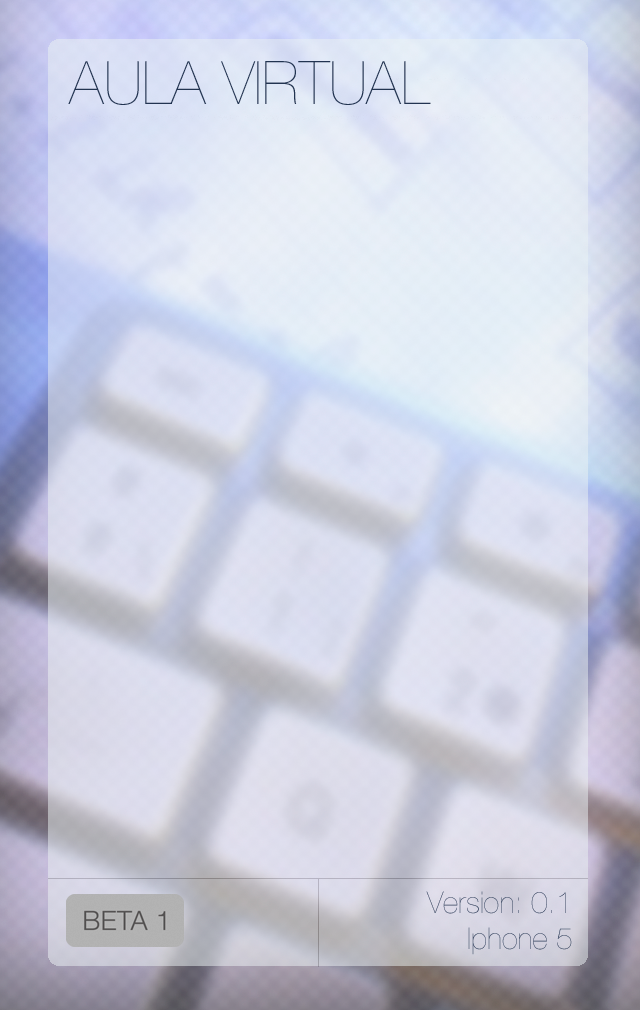
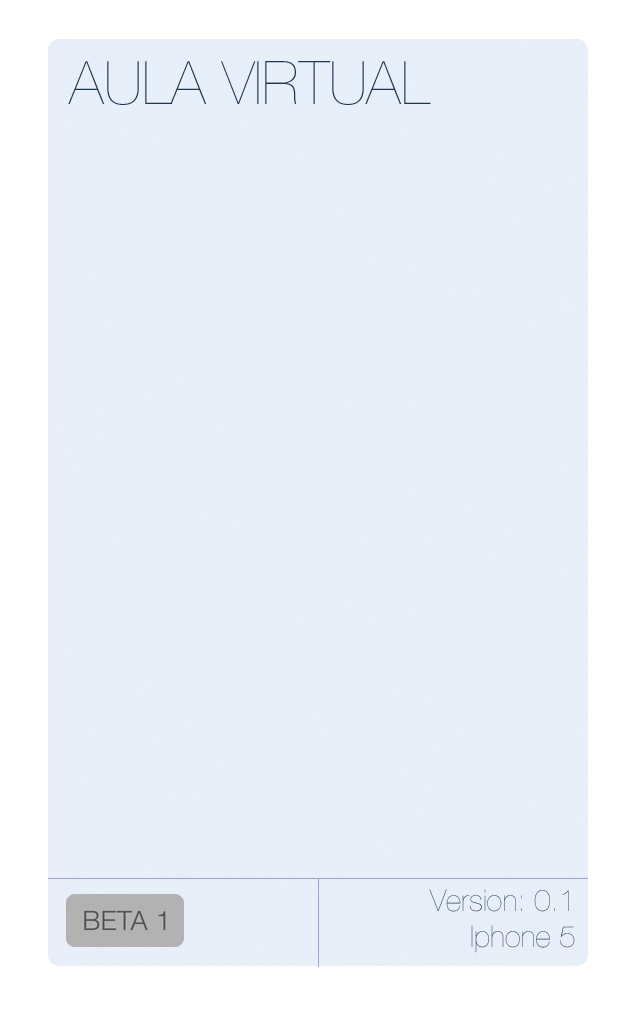
Adaptacion Ios 7 pantallas login, versiones iphone 4 retina e iphone 5.

diff --git a/Resources/alloy/controllers/index.js b/Resources/alloy/controllers/index.js
@@ -99,9 +99,9 @@ function Controller() {
         window.setRightNavButton(btnGuardar);
     } else {
         var window = Titanium.UI.createWindow({
-            title: Titanium.Platform.displayCaps.platformHeight
+            title: "Datos de Acceso"
         });
-        window.backgroundImage = 568 > Titanium.Platform.displayCaps.platformHeight ? "library/images/iphone/backGround320x416Login.png" : "library/images/iphone/backGround640x1010Login.png";
+        window.backgroundImage = 568 > Titanium.Platform.displayCaps.platformHeight ? "library/images/iphone/backGround640x920Login.png" : "library/images/iphone/backGround640x1010Login.png";
         window.open({
             modal: true,
             modalTransitionStyle: Ti.UI.iPhone.MODAL_TRANSITION_STYLE_FLIP_HORIZONTAL,

diff --git a/app/controllers/index.js b/app/controllers/index.js
@@ -26,10 +26,10 @@ if (Ti.App.Properties.getString('Login')==undefined){
     window.setRightNavButton(btnGuardar);
    
 }else{
-    var window = Titanium.UI.createWindow({title:Titanium.Platform.displayCaps.platformHeight});
+    var window = Titanium.UI.createWindow({title:"Datos de Acceso"});//Titanium.Platform.displayCaps.platformHeight});
     
     if (Titanium.Platform.displayCaps.platformHeight < 568){
-   	window.backgroundImage="library/images/iphone/backGround320x416Login.png"; //Iphone 4
+   	window.backgroundImage="library/images/iphone/backGround640x920Login.png"; //Iphone 4
    }else{
    	window.backgroundImage="library/images/iphone/backGround640x1010Login.png"; //Iphone 5
    }
